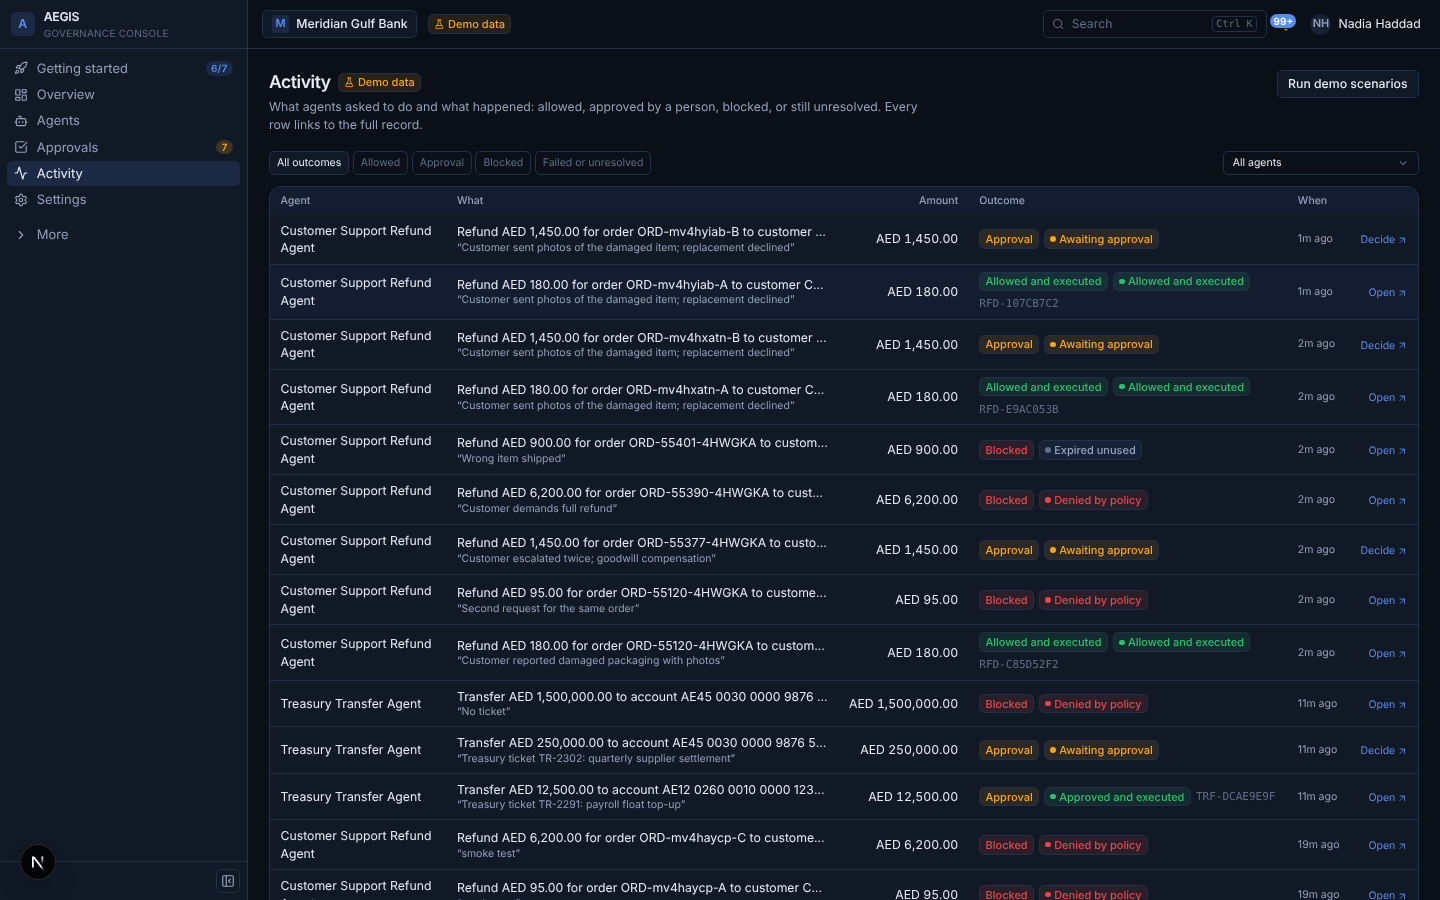
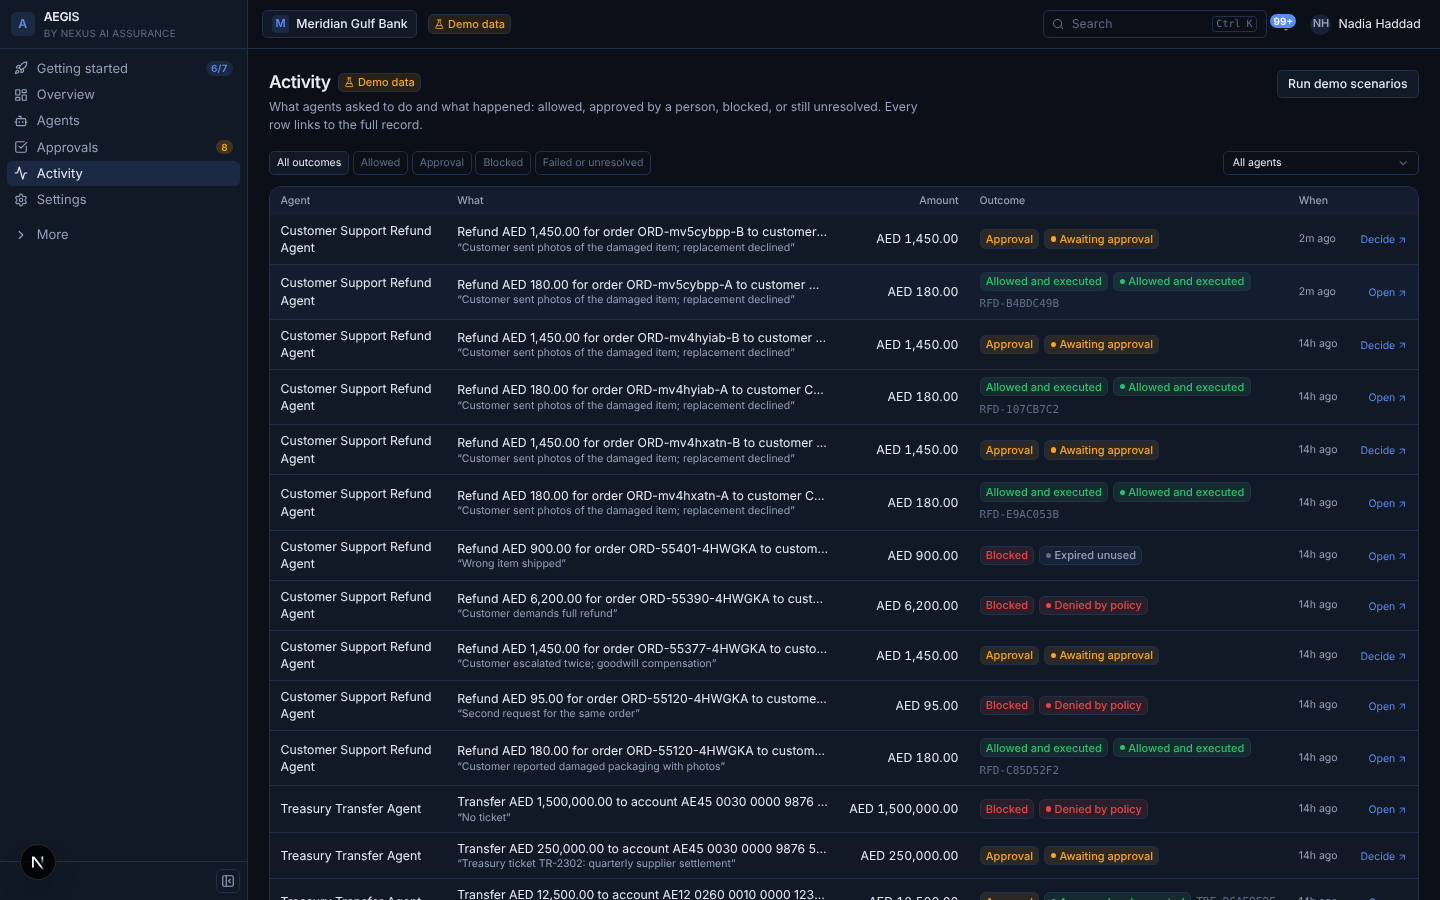
AEGIS: brand the product as AEGIS by Nexus AI Assurance
Wordmark, console brand block, page titles, Open Graph site name and footer
now read "AEGIS by Nexus AI Assurance". Screenshots regenerated from the
running console and site. Deployment guide gains a step 0 for the two DNS
records and the server before any install command.

Claude-Session: https://claude.ai/code/session_01YQErvz3tCzsnXUciojwjRg

diff --git a/aegis/apps/web/src/components/shell/console-shell.tsx b/aegis/apps/web/src/components/shell/console-shell.tsx
@@ -49,7 +49,7 @@ export function ConsoleShell({ data, children }: { data: ShellData; children: Re
       {!collapsed ? (
         <span className="min-w-0">
           <span className="block text-sm font-semibold tracking-tight text-fg">AEGIS</span>
-          <span className="block truncate text-[10px] uppercase tracking-wide text-fg-dim">Governance console</span>
+          <span className="block truncate text-[10px] uppercase tracking-wide text-fg-dim">by Nexus AI Assurance</span>
         </span>
       ) : null}
     </Link>
@@ -78,7 +78,10 @@ export function ConsoleShell({ data, children }: { data: ShellData; children: Re
               <div className="flex items-center justify-between border-b border-line pe-2">
                 <Link href="/overview" className="flex h-14 items-center gap-2.5 px-3">
                   <span className="grid h-7 w-7 place-items-center rounded-md bg-accent/15 text-sm font-semibold text-accent">A</span>
-                  <span className="text-sm font-semibold tracking-tight">AEGIS</span>
+                  <span className="min-w-0">
+                    <span className="block text-sm font-semibold tracking-tight">AEGIS</span>
+                    <span className="block text-[10px] uppercase tracking-wide text-fg-dim">by Nexus AI Assurance</span>
+                  </span>
                 </Link>
                 <RD.Close asChild>
                   <IconButton label="Close navigation" size="sm">

diff --git a/aegis/apps/web/src/components/marketing/shell.tsx b/aegis/apps/web/src/components/marketing/shell.tsx
@@ -13,12 +13,15 @@ export const NAV = [
 
 export function Wordmark({ className }: { className?: string }) {
   return (
-    <Link href="/" className={`inline-flex items-center gap-2.5 ${className ?? ""}`} aria-label="AEGIS home">
+    <Link href="/" className={`inline-flex items-center gap-2.5 ${className ?? ""}`} aria-label="AEGIS by Nexus AI Assurance, home">
       <svg width="26" height="26" viewBox="0 0 32 32" aria-hidden="true" focusable="false">
         <path d="M16 2 L28 7 V16 C28 23 22.5 28 16 30 C9.5 28 4 23 4 16 V7 Z" fill="none" stroke="var(--mk-accent)" strokeWidth="2.2" strokeLinejoin="round" />
         <path d="M16 9 L22 20 H10 Z" fill="var(--mk-accent)" />
       </svg>
-      <span className="text-[17px] font-semibold tracking-[0.12em]">AEGIS</span>
+      <span className="flex flex-col leading-none">
+        <span className="text-[17px] font-semibold tracking-[0.12em]">AEGIS</span>
+        <span className="mt-1 text-[10px] uppercase tracking-[0.14em] text-(--mk-muted)">by Nexus AI Assurance</span>
+      </span>
     </Link>
   );
 }
@@ -84,7 +87,7 @@ export function SiteFooter() {
             </Link>{" "}
             for known gaps. Demo data is synthetic. Thresholds shown are illustrative and customer-configurable.
           </p>
-          <p>AEGIS platform, pre-release build.</p>
+          <p>AEGIS by Nexus AI Assurance. Pre-release build.</p>
         </div>
       </div>
     </footer>

diff --git a/aegis/apps/web/src/app/(marketing)/layout.tsx b/aegis/apps/web/src/app/(marketing)/layout.tsx
@@ -6,9 +6,9 @@ import { SITE_URL } from "@/components/marketing/primitives";
 
 export const metadata: Metadata = {
   metadataBase: new URL(SITE_URL),
-  title: { default: "AEGIS", template: "%s | AEGIS" },
+  title: { default: "AEGIS by Nexus AI Assurance", template: "%s | AEGIS by Nexus AI Assurance" },
   description: "Enterprise AI governance, authorization, security and assurance. Define what your AI agents may do, enforce it before execution and prove what happened.",
-  openGraph: { type: "website", siteName: "AEGIS", images: [{ url: "/assets/og.svg", width: 1200, height: 630, alt: "AEGIS: define, enforce, prove" }] },
+  openGraph: { type: "website", siteName: "AEGIS by Nexus AI Assurance", images: [{ url: "/assets/og.svg", width: 1200, height: 630, alt: "AEGIS: define, enforce, prove" }] },
   twitter: { card: "summary_large_image" },
   robots: { index: true, follow: true },
 };

diff --git a/aegis/apps/web/src/components/marketing/home.tsx b/aegis/apps/web/src/components/marketing/home.tsx
@@ -5,7 +5,7 @@ import { ButtonLink, Note, Pill, Pre, Section, SectionHeading, Table } from "./p
 import { Screenshot } from "./screenshot";
 
 export const homeMetadata: Metadata = {
-  title: "AEGIS | Let AI agents handle routine work. Require human approval for risky actions.",
+  title: "AEGIS by Nexus AI Assurance | Let AI agents handle routine work. Require human approval for risky actions.",
   description: "AEGIS governs the actions AI agents take. Routine refunds run on their own, risky ones wait for a named approver, and every decision is recorded in a verifiable ledger. Built for customer-support refund workflows first.",
   alternates: { canonical: "/" },
 };

diff --git a/aegis/apps/web/src/app/layout.tsx b/aegis/apps/web/src/app/layout.tsx
@@ -2,7 +2,7 @@ import type { Metadata } from "next";
 import "./globals.css";
 
 export const metadata: Metadata = {
-  title: { default: "AEGIS", template: "%s | AEGIS" },
+  title: { default: "AEGIS by Nexus AI Assurance", template: "%s | AEGIS by Nexus AI Assurance" },
   description: "Enterprise AI governance, authorization, security and assurance.",
 };
 

diff --git a/aegis/docs/IMPLEMENTATION_REPORT.md b/aegis/docs/IMPLEMENTATION_REPORT.md
@@ -16,6 +16,8 @@ The brief named five potential defects and asked that the earlier reports be tre
 | Application services received the owner migration credentials | Confirmed. Compose passed `MIGRATION_DATABASE_URL` to api, worker and web; one Kubernetes secret served every pod. | Compose overrides the owner URL to empty for application services; Kubernetes splits `aegis-secrets` from `aegis-migrate-secrets`; `assertApplicationProcess` refuses to start in production when an application process finds owner credentials, and warns in development. | Startup guard runs in api, worker and web; the dev environment logs the warning |
 | Lint commands were placeholders and the CI workflow was missing from the archive | Confirmed. Five packages ran `echo lint-ok`; the workflow lives at the repository root (GitHub requires it there) and the archive built from `aegis/` omitted it. | typescript-eslint flat config for packages and services, real `lint` scripts, an em dash check, and `scripts/make-archive.sh` that includes the workflow. | `pnpm -r lint` passes with 0 errors (2 pre-existing warnings in console config files); CI runs lint and the style check |
 
+Branding: the product is presented as "AEGIS by Nexus AI Assurance" on the public site, in the console and in page titles (2026-10-12). Nexus AI Assurance is the owner's brand; no claim about Nexus beyond that is made.
+
 Two further defects surfaced during the work and were fixed: the Shield inspector defaulted to a no-op when `installShield()` was not called in a process (now the default lazily loads the real inspector, with a regression test), and new organizations started without data classes, so Shield detected nothing for a fresh tenant (now provisioned at creation).
 
 ## What the acceptance criteria say, and where each stands

diff --git a/aegis/docs/DEPLOY_STEP_BY_STEP.md b/aegis/docs/DEPLOY_STEP_BY_STEP.md
@@ -8,6 +8,13 @@ Everything below uses the synthetic demo tenant. No real money can move: the onl
 
 What you need: an Ubuntu 22.04 or 24.04 VM with 2 CPUs, 4 GB RAM, 20 GB disk, a public IP, and two DNS names pointed at it. The templates assume the product lives under the owner's existing domain as `aegis.nexusai.ae` (site and console) and `aegis-api.nexusai.ae` (API): add two A records with those names at the registrar, pointing at the VM's IP. The main nexusai.ae website is a separate site and is not affected. Root or sudo access on the VM.
 
+### 0. Before touching the server: DNS and the machine
+
+1. At the registrar or DNS host for nexusai.ae, add two records of type A. Name `aegis`, value: the server's public IP. Name `aegis-api`, value: the same IP. Leave the TTL at its default. Nothing else on nexusai.ae changes.
+2. Rent one Ubuntu 24.04 server (2 vCPU, 4 GB RAM, 20 GB disk) from any provider, with a public IPv4 address and SSH access. Put that IP into the two records above.
+3. Open ports 22, 80 and 443 in the provider's firewall. Caddy needs 80 and 443 to obtain certificates.
+4. Check from your laptop: `nslookup aegis.nexusai.ae` and `nslookup aegis-api.nexusai.ae` must both answer with the server IP before you run step 8.
+
 ### 1. Install the runtime
 
 ```

diff --git a/aegis/README.md b/aegis/README.md
@@ -1,4 +1,4 @@
-# AEGIS
+# AEGIS by Nexus AI Assurance
 
 Let AI agents handle routine work. Require human approval for risky actions. Keep a verifiable record of every decision.
 
